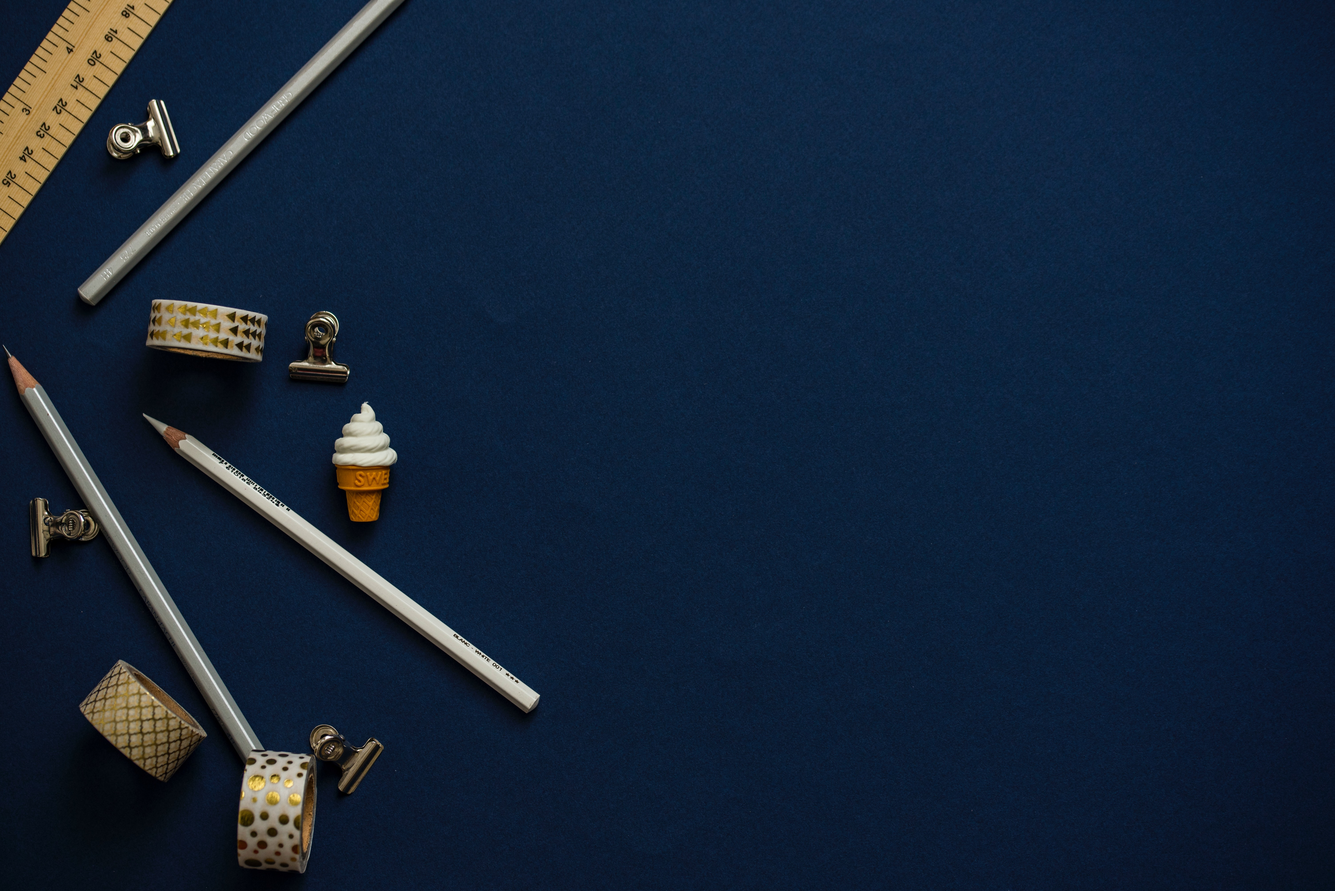
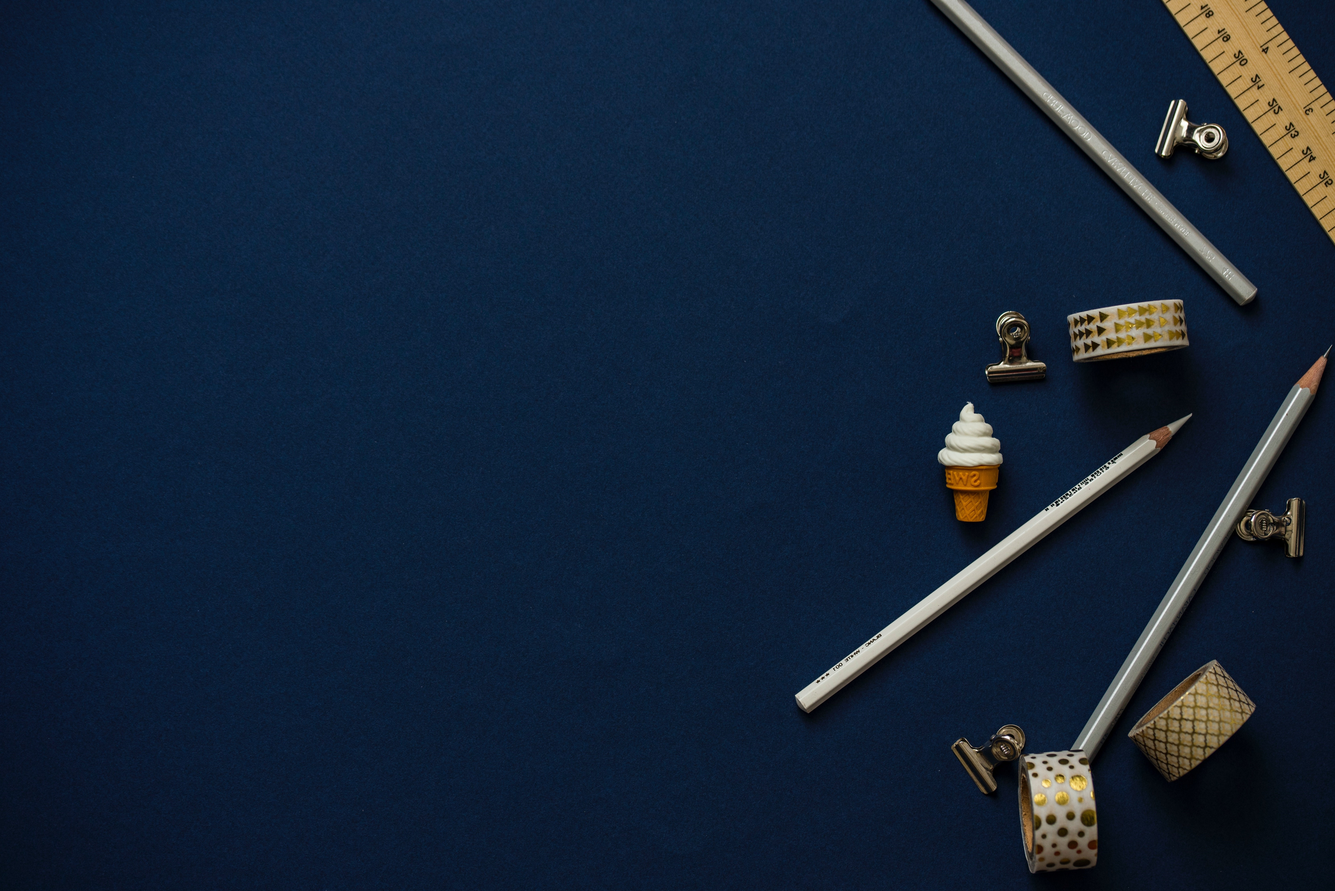
bg for im

diff --git a/app/page.tsx b/app/page.tsx
@@ -1,18 +1,44 @@
 import React from "react";
 import "../styles/globals.css";
 import css from "./home.module.css";
-import BG from "../public/imran-vai/bg.jpg";
+import BG from "/public/imran-vai/310309226_1344791275928131_78698796048686728_n.jpg";
 import Image from "next/image";
 const Pages = () => {
   return (
-    <div
-      className={`${css.bg} text-white backdrop-blur-sm px-16 pt-10`}
-    >
-      
-      <h1 className="text-3xl font-bold tracking-widest">Hi There!</h1>
-      <h1 className="text-3xl font-bold ">I am Imran Hossain</h1>
-      <p>I am student of Daffodil Internation al University</p>
-    </div>
+    <>
+      <div className={`${css.bg} text-white backdrop-blur-sm px-16`}>
+        <div className="pt-[20%]">
+          <h1 className="text-3xl  ">Hi, My Name is </h1>
+          <h1 className="text-[4rem] font-bold leading-normal ">
+            Imran Hossain
+          </h1>
+          <p className="text-3xl ">
+            I am student of Daffodil Internation al University
+          </p>
+        </div>
+      </div>
+      <div className="about-container text-center">
+        <div>
+          <h1 className="about">About me</h1>
+          <p>who I am</p>
+        </div>
+        <div>
+          <div className="image-container text-center">
+            <Image
+              src={BG}
+              alt="BG"
+              width={200}
+              height={200}
+              priority={true}
+            />
+
+          </div>
+          <div className="text-container">
+
+          </div>
+        </div>
+      </div>
+    </>
   );
 };
 
